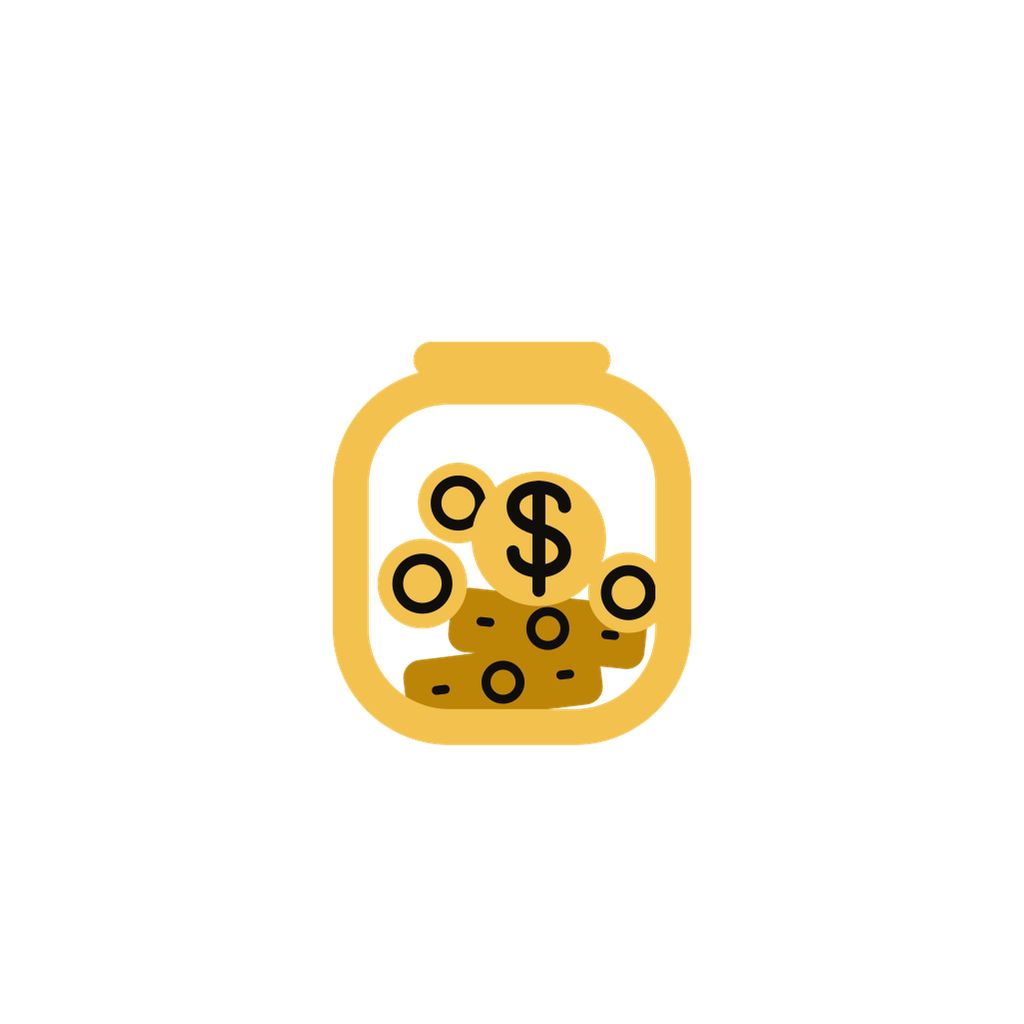
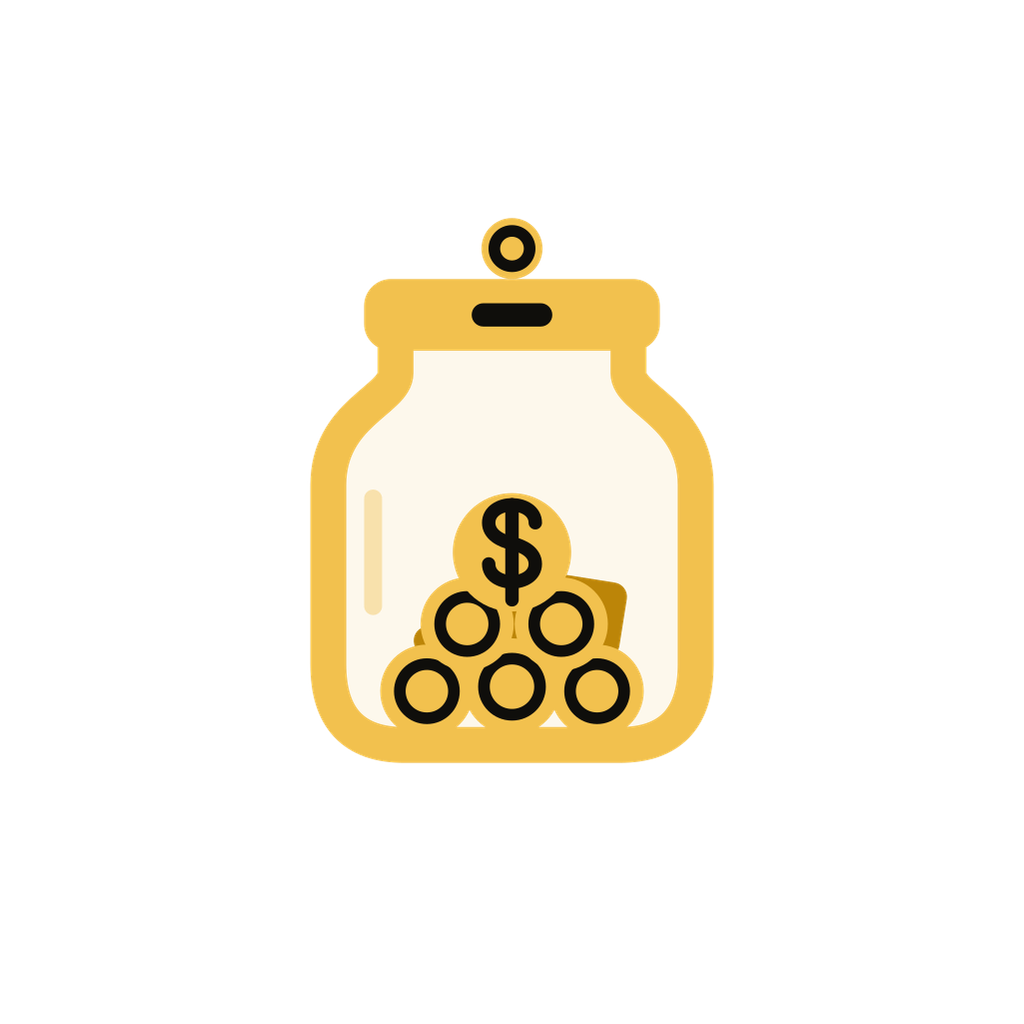
feat: dress the launcher with the living jar

Changed region(s): [[0.2812, 0.2188, 0.7188, 0.75]]

diff --git a/src/components/PotIcon.tsx b/src/components/PotIcon.tsx
@@ -11,15 +11,23 @@ import Svg, {
 import { useTheme } from "../theme/ThemeProvider";
 
 /**
- * A marca do Economize! — um pote que enche de dinheiro.
+ * A marca do Economize! — um pote de vidro que enche de dinheiro.
  *
  * O preenchimento NÃO é enfeite: representa quanto sobrou no ciclo. A mesma
  * forma serve de logo, de ícone e de indicador de progresso, e é isso que
  * justifica ela ser um componente e não um PNG.
  *
- * E é dinheiro de verdade lá dentro — moedas com anel e cédulas com miolo —,
- * nunca um líquido colorido: "quanto guardei" é uma quantidade de coisas, não
- * um nível de tanque.
+ * Por que esta silhueta: a versão anterior era um retângulo arredondado com
+ * uma barra em cima e lia como celular ou torradeira — o dono aprovou a IDEIA
+ * do pote e reprovou a execução. Um pote se reconhece pela BOCA LARGA com a
+ * tampa mais larga que o gargalo, pelo ombro curto e pelo corpo bojudo; boca
+ * estreita vira garrafa. A fenda escura na tampa é o gesto que diz "cofre".
+ *
+ * E é dinheiro de verdade lá dentro — moedas de frente com anel (o anel é o
+ * que faz ler moeda, e não bolinha) amontoadas como caem num pote, cédulas
+ * atrás —, nunca um líquido colorido: "quanto guardei" é uma quantidade de
+ * coisas, não um nível de tanque. A geometria é a MESMA de `marca/10-pote.svg`
+ * e do gerador de PNGs; mudar aqui sem mudar lá desalinha ícone e app.
  */
 
 /** Faixas de preenchimento. O tom acompanha o resultado, não a quantidade. */
@@ -37,6 +45,11 @@ interface PotIconProps {
 
 const OURO_ESCURO = "#BC8508";
 
+// Vidro: gargalo largo (19→45), ombro curto e corpo bojudo com fundo redondo.
+// Tampa e fenda vivem fora do vidro para o recorte do conteúdo não as tocar.
+const VIDRO =
+  "M19 13.5V16.5C19 19.5 11.5 21 11.5 29V49Q11.5 58 20 58H44Q52.5 58 52.5 49V29C52.5 21 45 19.5 45 16.5V13.5";
+
 export default function PotIcon({
   size = 64,
   level = 0.6,
@@ -51,7 +64,8 @@ export default function PotIcon({
       : tone === "success"
         ? t.semantic.success
         : t.accent.neon;
-  // O vazado das moedas usa o fundo da tela: é o que desenha o anel e o cifrão
+  // O vazado das moedas e a fenda da tampa usam o fundo da tela: é o que
+  // desenha o anel, o cifrão e o corte do cofre em qualquer tema
   const vazado = t.background.base;
 
   const n = Math.max(0, Math.min(1, level));
@@ -62,53 +76,67 @@ export default function PotIcon({
       <Circle
         cx={cx}
         cy={cy}
-        r={r * 0.55}
+        r={r * 0.58}
         fill="none"
         stroke={vazado}
-        strokeWidth={1.2}
+        strokeWidth={1.3}
       />
     </G>
   );
 
+  // Cédula mais escura que a moeda, com miolo e duas marcas de borda — é o
+  // que a separa de uma barra
   const cedula = (cx: number, cy: number, rot: number, key: string) => (
     <G key={key} transform={`translate(${cx} ${cy}) rotate(${rot})`}>
       <Rect
-        x={-11}
-        y={-3.6}
-        width={22}
-        height={7.2}
-        rx={2}
+        x={-8.5}
+        y={-4.25}
+        width={17}
+        height={8.5}
+        rx={1.6}
         fill={tone === "brand" ? OURO_ESCURO : traco}
-        opacity={tone === "brand" ? 1 : 0.65}
+        fillOpacity={tone === "brand" ? 1 : 0.65}
       />
-      <Circle cx={0} cy={0} r={1.9} fill="none" stroke={vazado} strokeWidth={1} />
+      <Circle cx={0} cy={0} r={2.1} fill="none" stroke={vazado} strokeWidth={1.1} />
+      <Path
+        d="M-5.9 0h1.2M4.7 0h1.2"
+        stroke={vazado}
+        strokeWidth={1.1}
+        strokeLinecap="round"
+      />
     </G>
   );
 
-  // Quanto mais cheio, mais coisas — e não uma barra subindo
+  // Quanto mais cheio, mais coisas — e não uma barra subindo. Cédulas entram
+  // ANTES das moedas para ficarem atrás do monte.
   const dentro: React.ReactNode[] = [];
-  if (n > 0.05) dentro.push(moeda(24, 50, 4.5, "m1"));
-  if (n > 0.12) dentro.push(moeda(36, 51, 4.5, "m2"));
-  if (n > 0.28) dentro.push(cedula(31, 51, -6, "c1"));
-  if (n > 0.45) dentro.push(cedula(36, 45, 5, "c2"));
-  if (n > 0.55) dentro.push(moeda(23, 41, 5, "m3"));
-  if (n > 0.68) dentro.push(moeda(45, 41, 4.5, "m4"));
-  if (n > 0.8) dentro.push(moeda(27, 32, 4.5, "m5"));
+  if (n > 0.28) {
+    dentro.push(cedula(30, 47, -16, "c1"));
+    dentro.push(cedula(36, 43, 9, "c2"));
+  }
+  if (n > 0.05) {
+    dentro.push(moeda(22.5, 52, 5.2, "m1"));
+    dentro.push(moeda(41.5, 52, 5.2, "m2"));
+  }
+  if (n > 0.15) dentro.push(moeda(32, 51.5, 5.4, "m3"));
+  if (n > 0.55) dentro.push(moeda(27, 44.5, 5.2, "m4"));
+  if (n > 0.7) dentro.push(moeda(37.5, 44.5, 5.2, "m5"));
   if (n > 0.9) {
+    // A moeda do cifrão coroa o monte: é o estado "meta batida"
     dentro.push(
       <G key="cifrao">
-        <Circle cx={35} cy={35} r={7.5} fill={traco} />
+        <Circle cx={32} cy={36.5} r={6.6} fill={traco} />
         <Path
-          d="M35 27v16"
+          d="M32 31.2v10.6"
           stroke={vazado}
-          strokeWidth={2}
+          strokeWidth={1.5}
           strokeLinecap="round"
         />
         <Path
-          d="M38 31.5c0-1.4-1.4-2.2-3-2.2s-3 .8-3 2.2 1.4 2.2 3 2.5 3 1.1 3 2.5-1.4 2.2-3 2.2-3-.8-3-2.2"
+          d="M34.6 33.2c0-1.3-1.3-2-2.6-2s-2.6.7-2.6 2 1.3 2 2.6 2.3 2.6 1 2.6 2.3-1.3 2-2.6 2-2.6-.7-2.6-2"
           fill="none"
           stroke={vazado}
-          strokeWidth={2}
+          strokeWidth={1.5}
           strokeLinecap="round"
         />
       </G>,
@@ -118,37 +146,43 @@ export default function PotIcon({
   return (
     <Svg width={size} height={size} viewBox="0 0 64 64">
       <Defs>
-        {/* O recorte é o que mantém o dinheiro DENTRO do pote quando a
+        {/* O recorte é o que mantém o dinheiro DENTRO do vidro quando a
             quantidade cresce — sem ele, moeda vaza pela parede */}
         <ClipPath id="potInterior">
-          <Rect x={14} y={18} width={36} height={38} rx={11} />
+          <Path d={`${VIDRO}Z`} />
         </ClipPath>
       </Defs>
 
       {coinY !== undefined && coinOpacity > 0 ? (
-        <Circle cx={32} cy={coinY} r={5} fill={traco} opacity={coinOpacity} />
+        <G opacity={coinOpacity}>{moeda(32, coinY, 4, "queda")}</G>
       ) : null}
+
+      {/* Vidro sombreado de leve: é o que faz o vazio ler como pote vazio, e
+          não como contorno solto */}
+      <Path d={`${VIDRO}Z`} fill={traco} fillOpacity={0.1} />
 
       <G clipPath="url(#potInterior)">{dentro}</G>
 
-      <Rect
-        x={14}
-        y={18}
-        width={36}
-        height={38}
-        rx={11}
+      <Path
+        d={VIDRO}
         fill="none"
         stroke={traco}
         strokeWidth={4}
         strokeLinejoin="round"
-      />
-      <Path
-        d="M23 15h18"
-        stroke={traco}
-        strokeWidth={4}
         strokeLinecap="round"
-        fill="none"
       />
+      {/* Brilho do vidro */}
+      <Path
+        d="M16.5 30.5v12"
+        stroke={traco}
+        strokeWidth={2}
+        strokeLinecap="round"
+        strokeOpacity={0.4}
+      />
+
+      {/* Tampa mais larga que o gargalo, com a fenda do cofre */}
+      <Rect x={15.5} y={6} width={33} height={8} rx={3} fill={traco} />
+      <Rect x={27.5} y={8.7} width={9} height={2.6} rx={1.3} fill={vazado} />
     </Svg>
   );
 }

diff --git a/src/theme/motionPresets.ts b/src/theme/motionPresets.ts
@@ -1,6 +1,8 @@
 import { useCallback, useMemo } from "react";
+import { Platform } from "react-native";
 import {
   Easing,
+  FadeIn,
   FadeInDown,
   useAnimatedStyle,
   useReducedMotion,
@@ -15,6 +17,33 @@ import { motion } from "./ds";
 // função-worklet alimenta os builders de entrada (que exigem EasingFunction)
 export const softEasing = Easing.bezier(...motion.easing.soft);
 export const softEasingFn = Easing.bezierFn(...motion.easing.soft);
+
+const isWeb = Platform.OS === "web";
+
+/**
+ * Easing das animações de ENTRADA/SAÍDA (builders `FadeIn*`, `FadeOut*`).
+ *
+ * Na web o Reanimated 3.16 só traduz para CSS as easings NOMEADAS (linear,
+ * ease, quad, cubic, sin, circle, exp): qualquer bezier avulsa dispara
+ * "Selected easing is not currently supported on web" a cada elemento
+ * animado — eram 1.674 avisos numa volta pelo app — e cai no linear de
+ * qualquer jeito. Nativo continua na curva `soft` do ds.
+ */
+export const enteringEasing = isWeb ? Easing.ease : softEasingFn;
+
+/**
+ * Deslocamento inicial sutil (12 px em vez dos 25 do preset) — SÓ no nativo.
+ *
+ * Na web, `.withInitialValues()` gera um keyframe com nome próprio e, quando
+ * ele termina, a rotina de limpeza do gerenciador web aplica
+ * `position: absolute` no elemento (é o tratamento pensado para o "dummy" da
+ * animação de saída, aplicado por engano à entrada). Resultado medido em
+ * 390 px: TODOS os blocos da Home viravam absolutos meio segundo depois de
+ * montar, o container encolhia para 56 px e a tela inteira se sobrepunha em
+ * um único quadrante — com `TypeError: reading 'top'` a cada bloco cujo
+ * snapshot não existia. Na web o preset é o FadeInDown puro.
+ */
+// (a forma por plataforma vive em buildEnteringPresets, abaixo)
 
 // Stagger de lista: incremento curto com teto no 6º item — a entrada orienta
 // o olho no que está visível sem atrasar o resto de listas longas
@@ -32,36 +61,41 @@ export const sheetSpring = {
 } as const;
 
 /**
- * Presets de entrada por categoria de elemento. Todos respeitam a preferência
- * de movimento reduzido do sistema: nesse caso devolvem `undefined` e o
- * elemento simplesmente aparece, sem deslocamento nem fade.
+ * Fábrica pura dos presets de entrada — separada do hook para ser testável
+ * sem montar navegação nem Reanimated de verdade. `web` decide a forma (ver
+ * `enteringEasing`/`withSubtleOffset`); `reducedMotion` devolve `undefined`
+ * em tudo e o elemento simplesmente aparece, sem deslocamento nem fade.
  */
-export function useMotionPresets() {
-  const reducedMotion = useReducedMotion();
+export function buildEnteringPresets(web: boolean, reducedMotion: boolean) {
+  const easing = web ? Easing.ease : softEasingFn;
+  const offset = <T extends { withInitialValues: (v: object) => T }>(a: T): T =>
+    web ? a : a.withInitialValues({ transform: [{ translateY: 12 }] });
 
   // Entrada de card: fade + deslocamento curto para cima (nada de saltos)
-  const cardEntering = useMemo(() => {
-    if (reducedMotion) return undefined;
-    return FadeInDown.duration(motion.duration.base)
-      .easing(softEasingFn)
-      .withInitialValues({ transform: [{ translateY: 12 }] });
-  }, [reducedMotion]);
+  const cardEntering = reducedMotion
+    ? undefined
+    : offset(FadeInDown.duration(motion.duration.base).easing(easing));
 
   // Item de lista: o mesmo movimento do card com atraso incremental sutil
-  const listItemEntering = useCallback(
-    (index: number) => {
-      if (reducedMotion) return undefined;
-      return FadeInDown.duration(motion.duration.base)
-        .easing(softEasingFn)
-        .delay(Math.min(index, STAGGER_MAX_INDEX) * STAGGER_STEP_MS)
-        .withInitialValues({ transform: [{ translateY: 12 }] });
-    },
-    [reducedMotion],
-  );
-
-  // FAB: escala + fade — marca presença sem roubar o foco do conteúdo
-  const fabEntering = useMemo(() => {
+  const listItemEntering = (index: number) => {
     if (reducedMotion) return undefined;
+    return offset(
+      FadeInDown.duration(motion.duration.base)
+        .easing(easing)
+        .delay(Math.min(index, STAGGER_MAX_INDEX) * STAGGER_STEP_MS),
+    );
+  };
+
+  // FAB: escala + fade — marca presença sem roubar o foco do conteúdo.
+  // Animação de função só existe no nativo: na web o gerenciador não a
+  // reconhece ("Couldn't load entering/exiting animation") e o FAB aparece
+  // seco. Um fade nomeado dá a mesma presença discreta.
+  let fabEntering: EntryExitAnimationFunction | ReturnType<typeof FadeIn.duration> | undefined;
+  if (reducedMotion) {
+    fabEntering = undefined;
+  } else if (web) {
+    fabEntering = FadeIn.duration(motion.duration.base).easing(Easing.ease);
+  } else {
     const enter: EntryExitAnimationFunction = () => {
       "worklet";
       return {
@@ -82,12 +116,25 @@ export function useMotionPresets() {
         },
       };
     };
-    return enter;
-  }, [reducedMotion]);
+    fabEntering = enter;
+  }
 
-  return { reducedMotion, cardEntering, listItemEntering, fabEntering };
+  return { cardEntering, listItemEntering, fabEntering };
 }
 
+/**
+ * Presets de entrada por categoria de elemento. Todos respeitam a preferência
+ * de movimento reduzido do sistema: nesse caso devolvem `undefined` e o
+ * elemento simplesmente aparece, sem deslocamento nem fade.
+ */
+export function useMotionPresets() {
+  const reducedMotion = useReducedMotion();
+  const presets = useMemo(
+    () => buildEnteringPresets(isWeb, reducedMotion),
+    [reducedMotion],
+  );
+  return { reducedMotion, ...presets };
+}
 /**
  * Feedback de toque padronizado: escala 0.97 em duration.instant. O estilo
  * vai no Animated.View externo e os handlers no Touchable interno.

diff --git a/src/theme/__tests__/motionPresets.test.tsx b/src/theme/__tests__/motionPresets.test.tsx
@@ -1,0 +1,44 @@
+import { buildEnteringPresets } from "../motionPresets";
+
+describe("buildEnteringPresets — forma por plataforma", () => {
+  it("na web não usa deslocamento inicial (o Reanimated deixaria o bloco absoluto)", () => {
+    // Na web, `.withInitialValues()` vira keyframe de nome próprio e a
+    // limpeza do gerenciador aplica `position: absolute` ao terminar — foi
+    // assim que a Home inteira colapsou em blocos sobrepostos
+    const presets = buildEnteringPresets(true, false);
+    const card = presets.cardEntering as unknown as { initialValues?: unknown };
+    const item = presets.listItemEntering(2) as unknown as {
+      initialValues?: unknown;
+    };
+    expect(card.initialValues).toBeUndefined();
+    expect(item.initialValues).toBeUndefined();
+    // O FAB na web é um preset nomeado, não uma função (que a web não carrega)
+    expect(typeof presets.fabEntering).not.toBe("function");
+    expect(presets.fabEntering).toBeDefined();
+  });
+
+  it("no nativo mantém o deslocamento sutil de 12 px e a animação do FAB em função", () => {
+    const presets = buildEnteringPresets(false, false);
+    const card = presets.cardEntering as unknown as {
+      initialValues?: { transform?: unknown[] };
+    };
+    expect(card.initialValues?.transform).toEqual([{ translateY: 12 }]);
+    expect(typeof presets.fabEntering).toBe("function");
+  });
+
+  it("com movimento reduzido tudo é undefined, nas duas plataformas", () => {
+    for (const web of [true, false]) {
+      const presets = buildEnteringPresets(web, true);
+      expect(presets.cardEntering).toBeUndefined();
+      expect(presets.listItemEntering(0)).toBeUndefined();
+      expect(presets.fabEntering).toBeUndefined();
+    }
+  });
+
+  it("o atraso do item de lista tem teto no 6º item", () => {
+    const presets = buildEnteringPresets(true, false);
+    const late = presets.listItemEntering(40) as unknown as { delayV?: number };
+    const capped = presets.listItemEntering(5) as unknown as { delayV?: number };
+    expect(late.delayV).toBe(capped.delayV);
+  });
+});

diff --git a/src/components/BrandOpening.tsx b/src/components/BrandOpening.tsx
@@ -136,9 +136,11 @@ export default function BrandOpening({
   return (
     <View style={{ alignItems: "center", justifyContent: "center" }}>
       <Animated.View
-        pointerEvents="none"
         style={[
           {
+            // `none` inline é seguro (só `box-none` exige o compilador — ver
+            // utils/pointerEvents.ts); como prop, a web avisa depreciação
+            pointerEvents: "none",
             position: "absolute",
             width: moedaTamanho,
             height: moedaTamanho,
